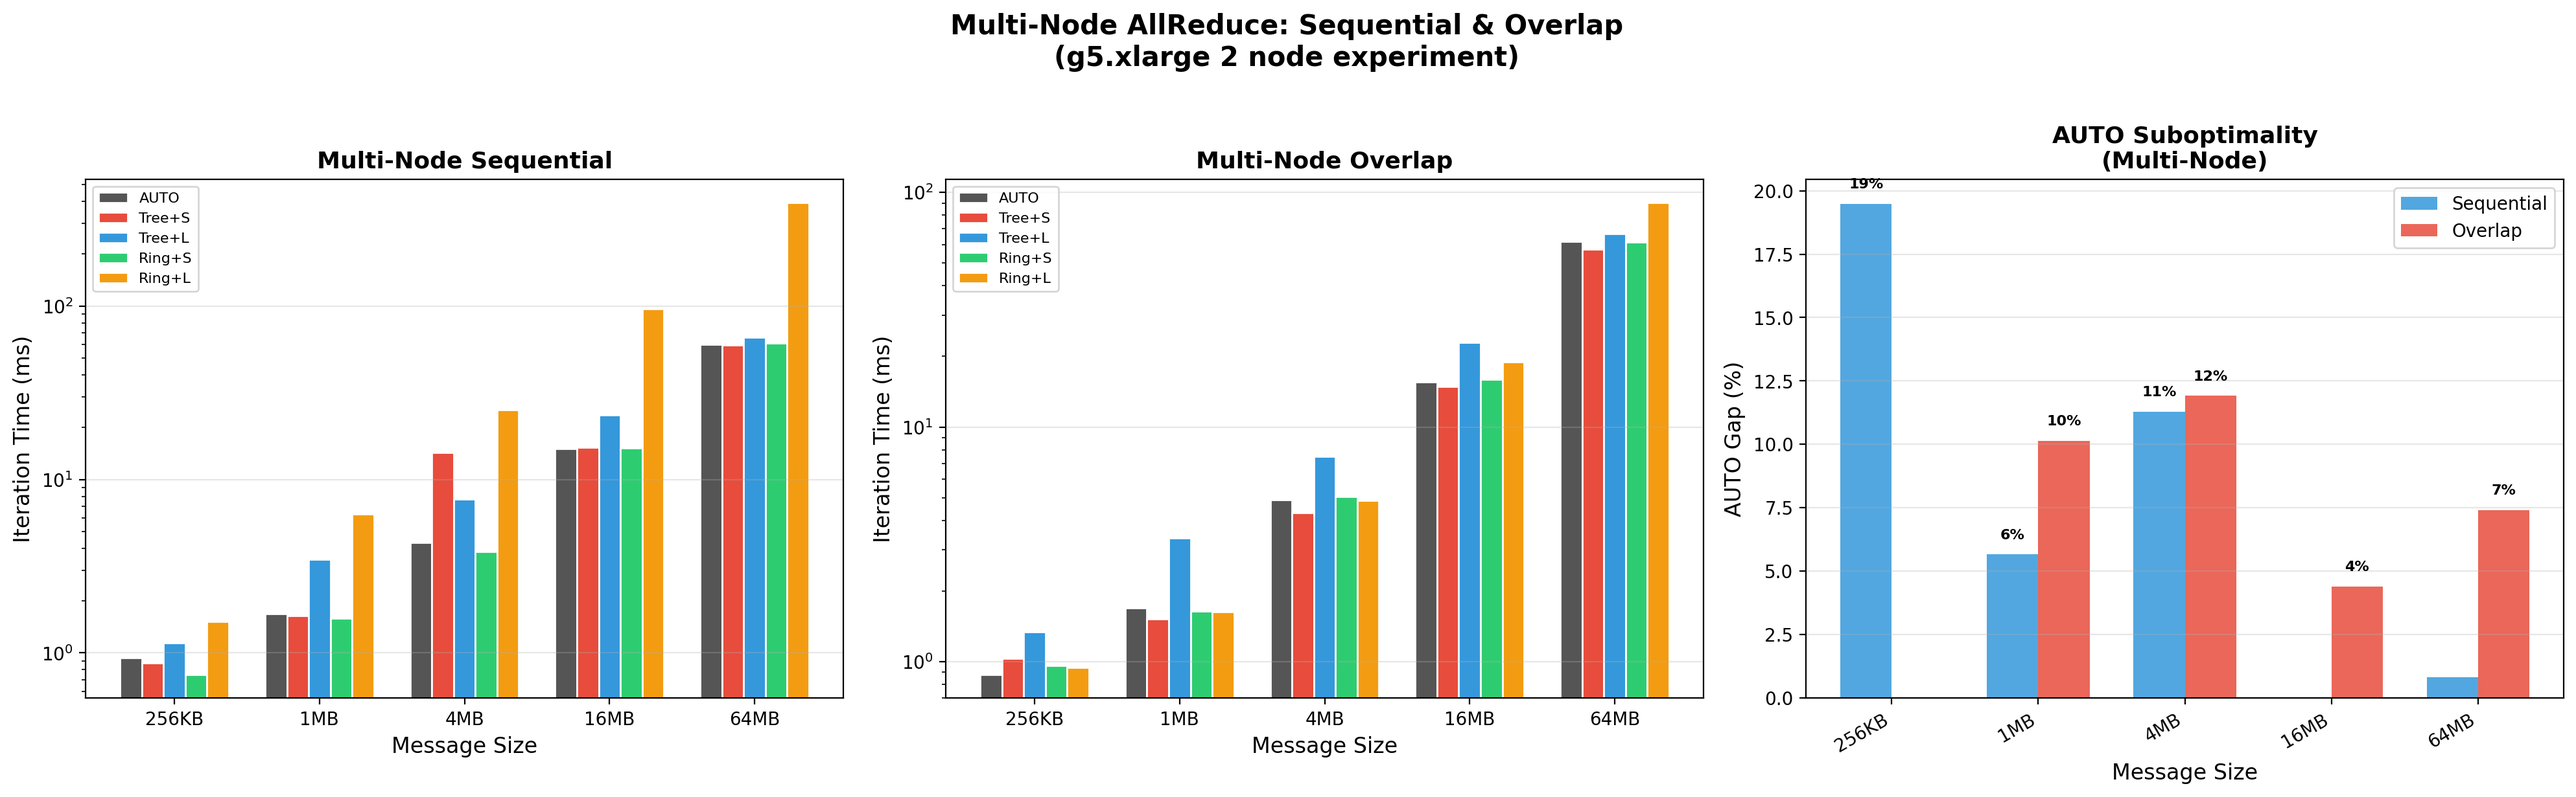
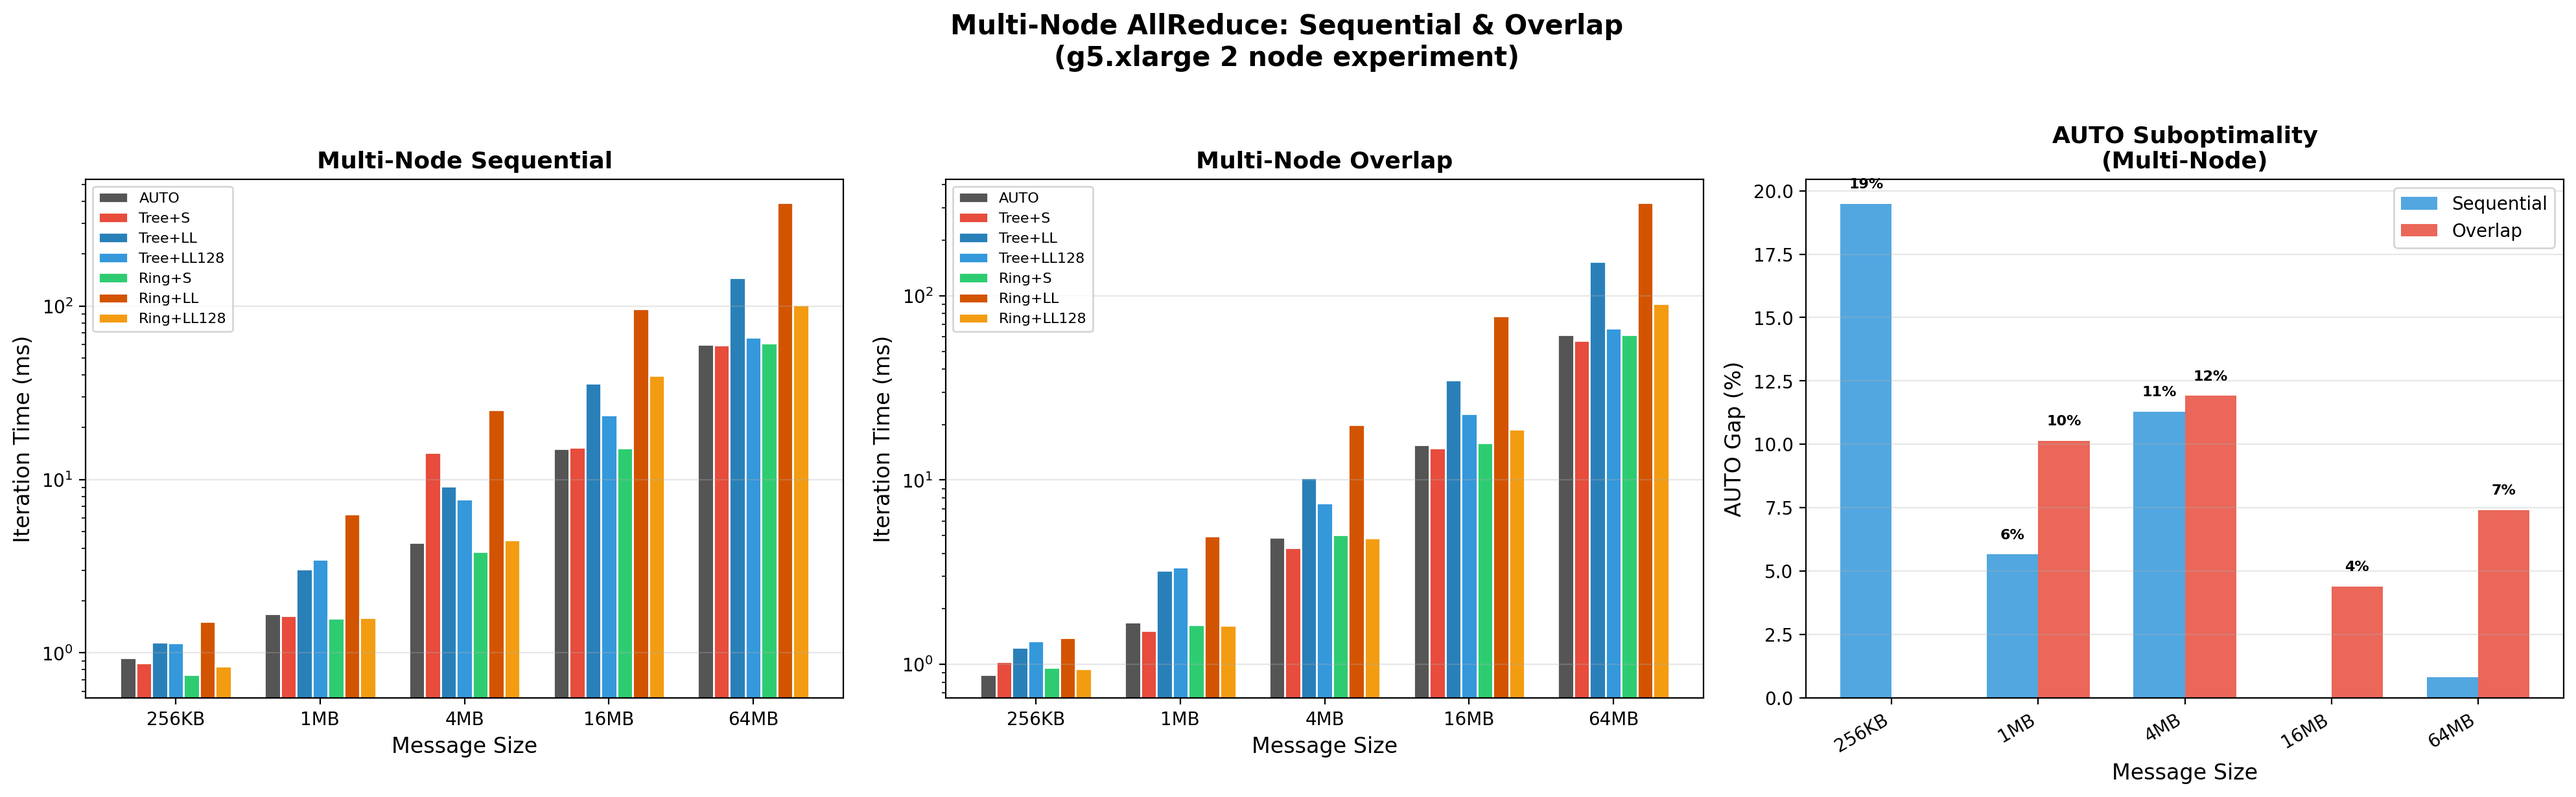
realized files don't have ll. compile all the graphs into a readme (#9)

diff --git a/phase4-tuner/scripts/cross_experiment_analysis.py b/phase4-tuner/scripts/cross_experiment_analysis.py
@@ -56,16 +56,20 @@ SIZE_BYTES = {
 CONFIG_SHORT = {
     "auto": "AUTO",
     "tree_simple": "Tree+S",
-    "tree_ll128": "Tree+L",
+    "tree_ll": "Tree+LL",
+    "tree_ll128": "Tree+LL128",
     "ring_simple": "Ring+S",
-    "ring_ll128": "Ring+L",
+    "ring_ll": "Ring+LL",
+    "ring_ll128": "Ring+LL128",
 }
-CONFIGS = ["auto", "tree_simple", "tree_ll128", "ring_simple", "ring_ll128"]
+CONFIGS = ["auto", "tree_simple", "tree_ll", "tree_ll128", "ring_simple", "ring_ll", "ring_ll128"]
 CONFIG_COLORS = {
     "auto": "#555555",
     "tree_simple": "#e74c3c",
+    "tree_ll": "#2980b9",
     "tree_ll128": "#3498db",
     "ring_simple": "#2ecc71",
+    "ring_ll": "#d35400",
     "ring_ll128": "#f39c12",
 }
 
@@ -752,10 +756,10 @@ def paper_figure6(multinode_data):
     # Panel 1: All configs under Sequential
     ax1 = axes[0]
     x = np.arange(len(sizes))
-    width = 0.15
+    width = 0.11  # 7 configs (auto, tree_simple, tree_ll, tree_ll128, ring_simple, ring_ll, ring_ll128)
     for i, cfg in enumerate(CONFIGS):
         vals = [seq[s].get(cfg, 0) for s in sizes]
-        ax1.bar(x + (i - 2) * width, vals, width, label=CONFIG_SHORT[cfg],
+        ax1.bar(x + (i - 3) * width, vals, width, label=CONFIG_SHORT[cfg],
                 color=CONFIG_COLORS[cfg], edgecolor="white")
     ax1.set_xticks(x)
     ax1.set_xticklabels(sizes, fontsize=10)
@@ -770,7 +774,7 @@ def paper_figure6(multinode_data):
     ax2 = axes[1]
     for i, cfg in enumerate(CONFIGS):
         vals = [ovl[s].get(cfg, 0) for s in sizes]
-        ax2.bar(x + (i - 2) * width, vals, width, label=CONFIG_SHORT[cfg],
+        ax2.bar(x + (i - 3) * width, vals, width, label=CONFIG_SHORT[cfg],
                 color=CONFIG_COLORS[cfg], edgecolor="white")
     ax2.set_xticks(x)
     ax2.set_xticklabels(sizes, fontsize=10)

diff --git a/phase1-baseline/scripts/run_benchmark_aws_multinode.py b/phase1-baseline/scripts/run_benchmark_aws_multinode.py
@@ -96,8 +96,8 @@ def main():
         dist.init_process_group(backend="nccl", rank=rank, world_size=world_size,
                                 init_method="env://")
         device = torch.device(f"cuda:{local_rank}")
-        # Sizes like nccl-tests: 8 to 128M, factor 2
-        min_b, max_b = 8, 128 * 1024 * 1024
+        # Sizes like nccl-tests: 8 to 256M, factor 2
+        min_b, max_b = 8, 256 * 1024 * 1024
         sizes = []
         b = min_b
         while b <= max_b:
@@ -839,7 +839,7 @@ def main() -> None:
                 f"--mca btl tcp,self --mca btl_tcp_if_include {vpc_cidr} "
                 f"--mca oob tcp --mca oob_tcp_if_include {vpc_cidr} "
             )
-            bench_args = "./build/all_reduce_perf_mpi -b 8 -e 128M -f 2 -g 1"
+            bench_args = "./build/all_reduce_perf_mpi -b 8 -e 256M -f 2 -g 1"
             print(f"Running NCCL all_reduce_perf for {len(configs)} configs{' (AUTO only)' if args.auto_only else ' (algo/proto + AUTO)'}...")
             for tag, env_additions in configs:
                 if env_additions is None:

diff --git a/phase4-tuner/scripts/ingest_multinode_txt_to_json.py b/phase4-tuner/scripts/ingest_multinode_txt_to_json.py
@@ -52,16 +52,16 @@ DEFAULT_OUTPUT = DEFAULT_RESULTS_DIR / "multinode_results.json"
 VALID_CONFIGS = {
     "auto",
     "tree_simple",
+    "tree_ll",
     "tree_ll128",
     "ring_simple",
+    "ring_ll",
     "ring_ll128",
 }
 
 # Map NCCL benchmark config names to our canonical keys (for AWS-style filenames).
-CONFIG_ALIASES = {
-    "tree_ll": "tree_ll128",
-    "ring_ll": "ring_ll128",
-}
+# tree_ll and ring_ll are kept distinct from tree_ll128 / ring_ll128 so figures can show both.
+CONFIG_ALIASES: dict[str, str] = {}
 
 # Figure 6 uses these sizes; map byte counts from benchmark output to labels.
 BYTES_TO_SIZE_LABEL = {

diff --git a/phase4-tuner/aws-multinode-g5.xlarge/README.md b/phase4-tuner/aws-multinode-g5.xlarge/README.md
@@ -1,0 +1,17 @@
+# Figure 6: Multi-Node AllReduce (Sequential & Overlap)
+
+**2 nodes**
+
+![Figure 6 — 2 nodes](aws-multinode-g5.xlarge-2nodes-sequential-overlap/paper_figures/paper_figure6_multinode.png)
+
+**3 nodes**
+
+![Figure 6 — 3 nodes](aws-multinode-g5.xlarge-3nodes-sequential-overlap/paper_figures/paper_figure6_multinode.png)
+
+**4 nodes**
+
+![Figure 6 — 4 nodes](aws-multinode-g5.xlarge-4nodes-sequential-overlap/paper_figures/paper_figure6_multinode.png)
+
+**5 nodes**
+
+![Figure 6 — 5 nodes](aws-multinode-g5.xlarge-5nodes-sequential-overlap/paper_figures/paper_figure6_multinode.png)
